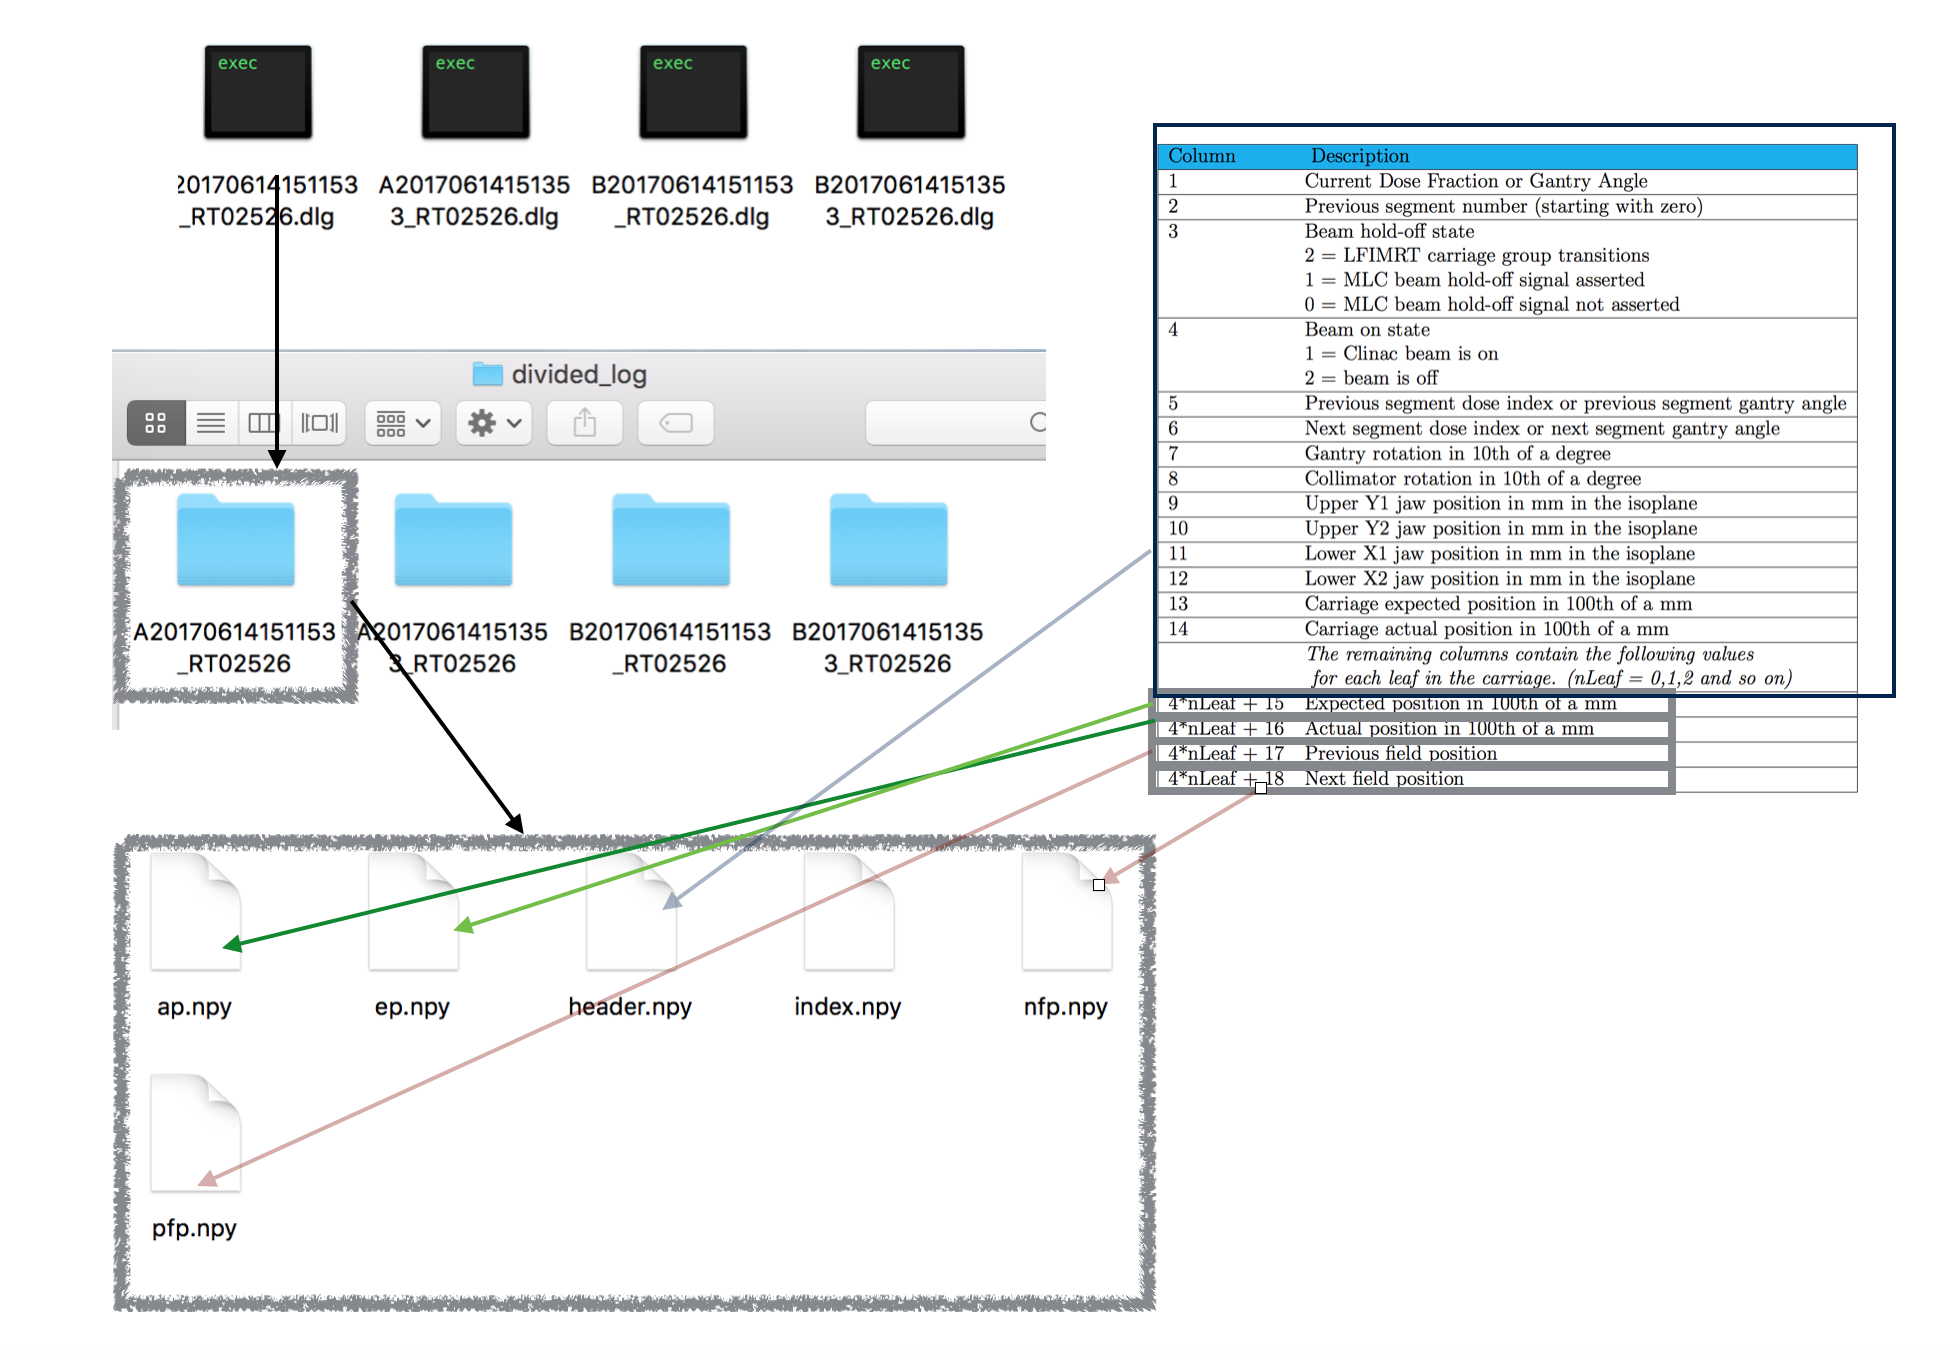
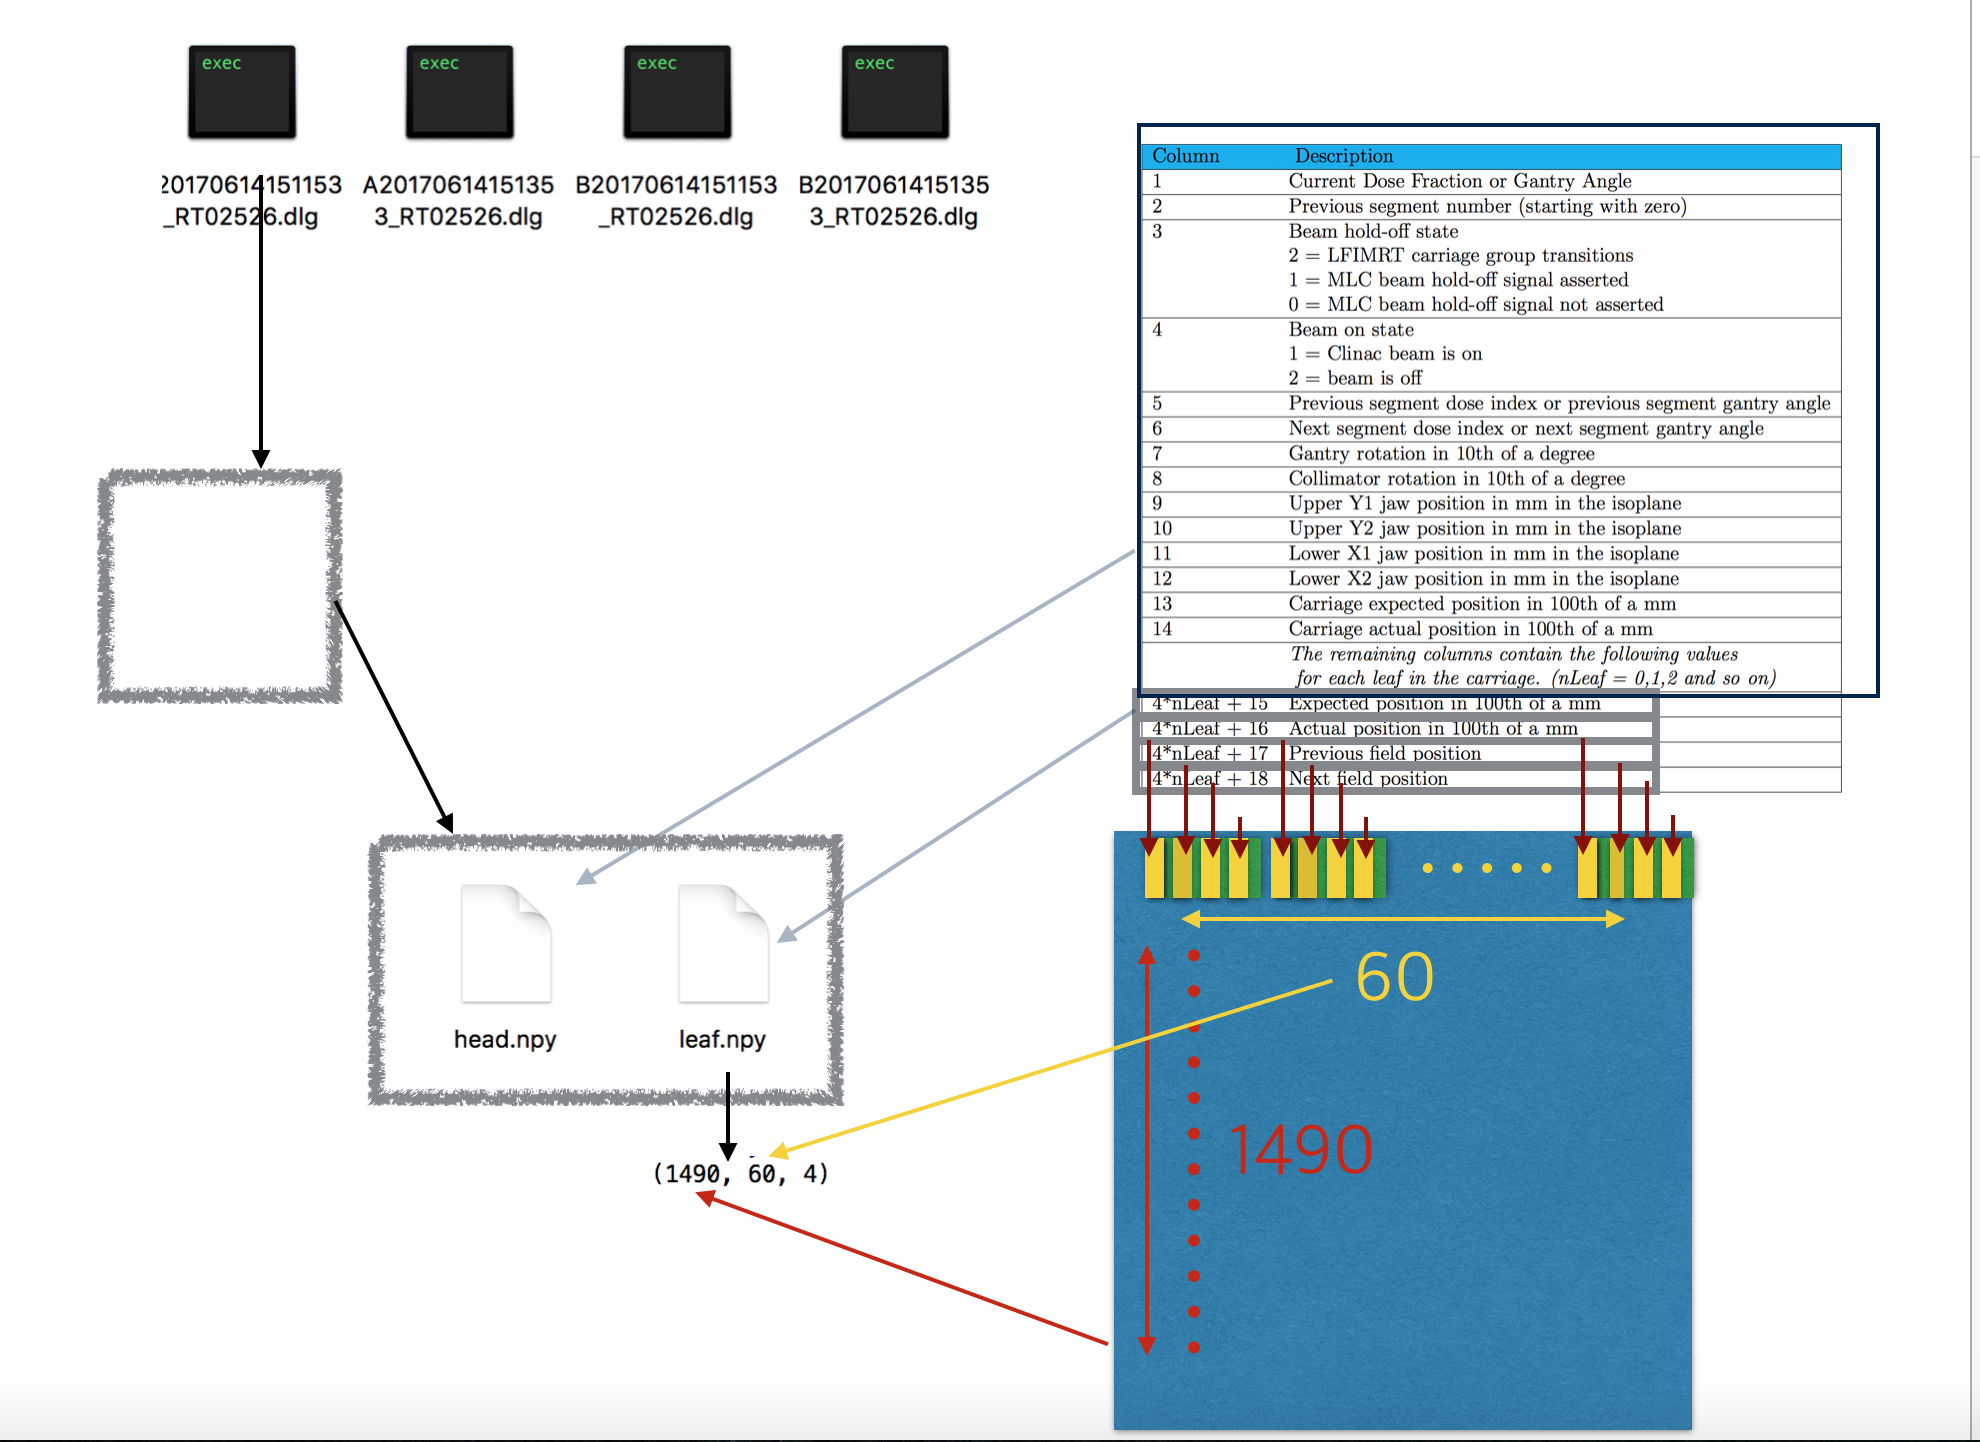
aaa

diff --git a/analysis.py b/analysis.py
@@ -17,35 +17,46 @@ def save_log(logs):
         np.save(folder_path+key,logs[key])
 def analysis_dinalog():
     log_paths=glob.glob('./log/*.dlg')
+    print log_paths[0]
     for path in log_paths:
-        print path
         index=path.split('/')[-1].split('.')[0]
-        print index
+        os.mkdir('./divided_log/'+index)
         f = open(path)
         lines=f.readlines()
         n_lines=len(lines)
-        ele=lines[6].split(',')
-        head_points=[];ep_=[];ap_=[];pfp_=[];nfp_=[]
         start_line=6
         end_line= n_lines
+        head_info=[];leafs_matrix=[]
+        n_leafs=60
         for l in range(start_line , end_line):
-            head_points.append(ele[0:14])
-            for i in range(4):
-                point_=ele[14 + 60 * i:14 + 60 * (i + 1)]
-                if i % 4 == 0:
-                    ep_.append(point_)
-                elif i % 4 == 1:
-                    ap_.append(point_)
-                elif i % 4 == 2:
-                    pfp_.append(point_)
-                else:
-                    nfp_.append(point_)
-        head_points, ep_, ap_, pfp_, nfp_=map(np.asarray , [head_points , ep_ , ap_, pfp_  , nfp_])
-        dic_log=list2dic(index,head_points, ep_, ap_, pfp_, nfp_)
-        save_log(dic_log)
+            leafs = []
+            elements=lines[l].split(',')
+            head_info.append(elements[0:14])
+            try:
+                if len(elements) != 254:
+                    raise ValueError
+            except ValueError:
+                print 'we skip this line',l, ' to save because',len(elements)
+                continue
+            for i in range(n_leafs):
+                points_=elements[14 +( i * 4 ) :14+ ( i + 1 )*4]
+                leafs.append(points_)
+            leafs_matrix.append(leafs)
+            np.save('./divided_log/'+index+'/leaf',leafs_matrix)
+            np.save('./divided_log/' + index + '/head', head_info)
+
+        print np.shape(leafs_matrix)
+
+
+
+
+        #head_points, ep_, ap_, pfp_, nfp_=map(np.asarray , [head_points , ep_ , ap_, pfp_  , nfp_])
+        #dic_log=list2dic(index,head_points, ep_, ap_, pfp_, nfp_)
+        #save_log(dic_log)
         #return index , head_points , ep_ , ap_, pfp_  , nfp_
 
 if __name__ == '__main__':
     #list2dic()
-    analysis_dinalog()
-    #index, head_points, ep_, ap_, pfp_, nfp_=
+    #analysis_dinalog()
+    ap_=np.load('./divided_log/A20170614151153_RT02526/leaf.npy')
+    print np.shape(ap_)
